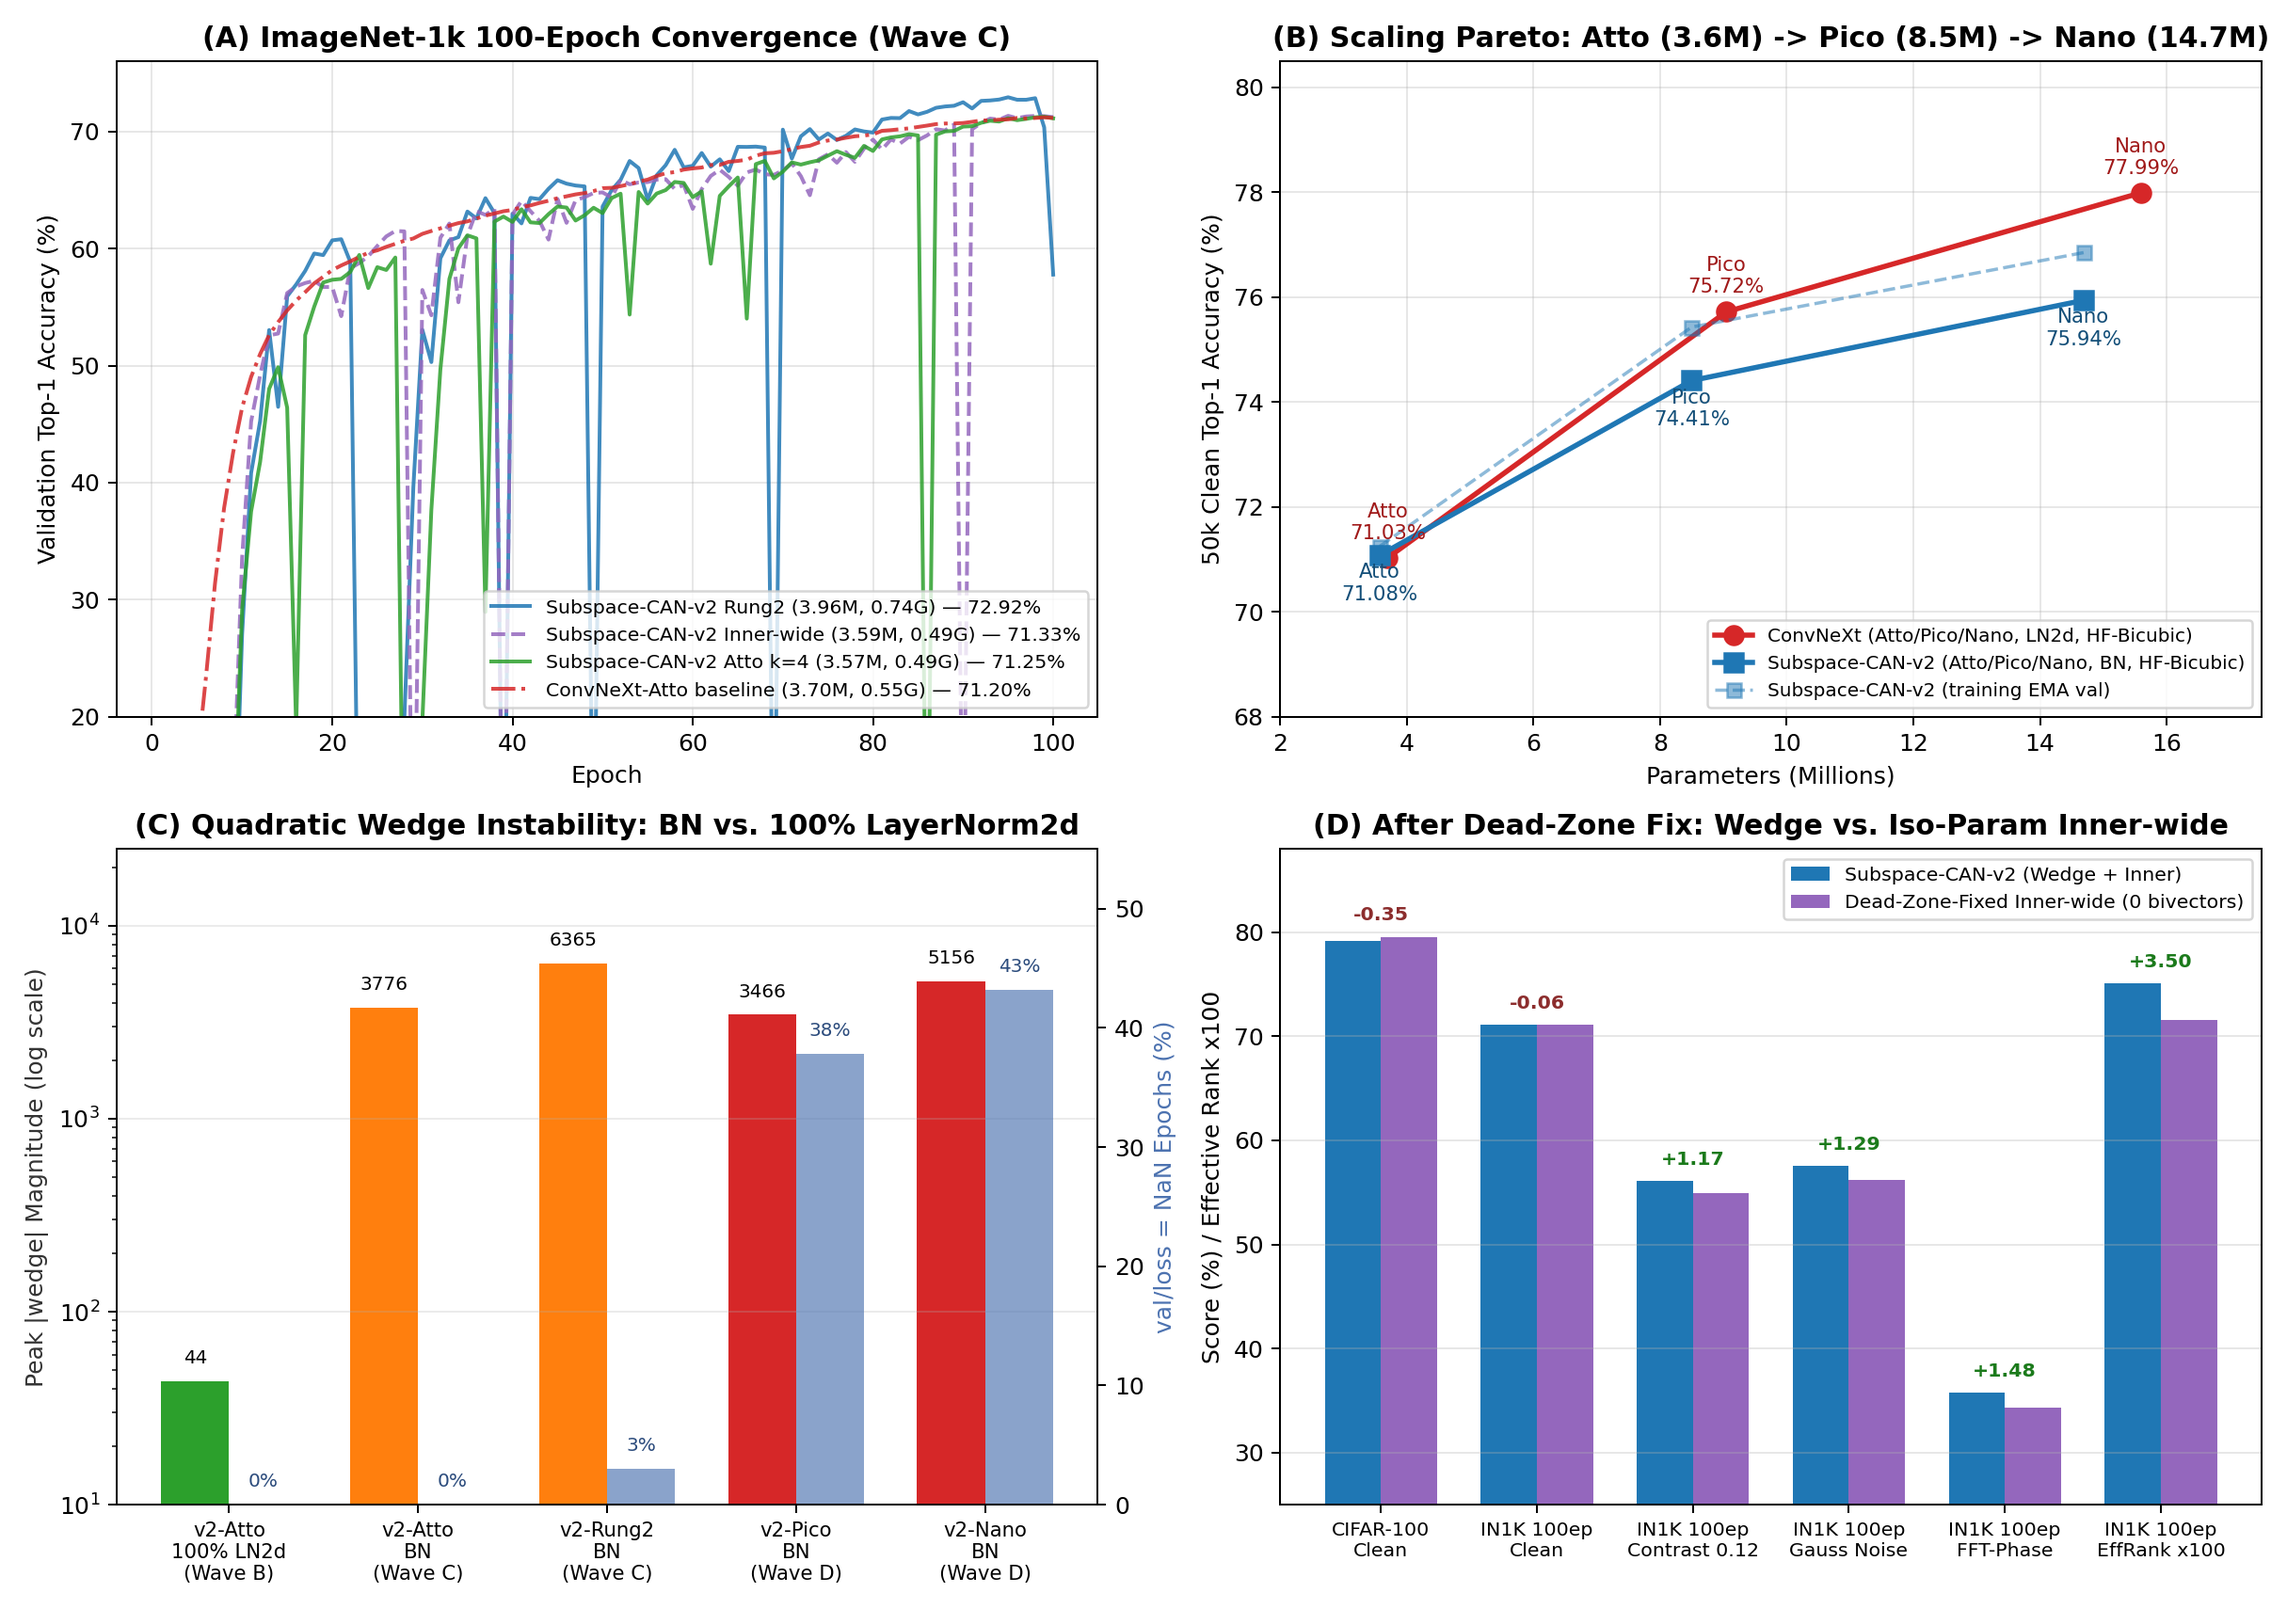
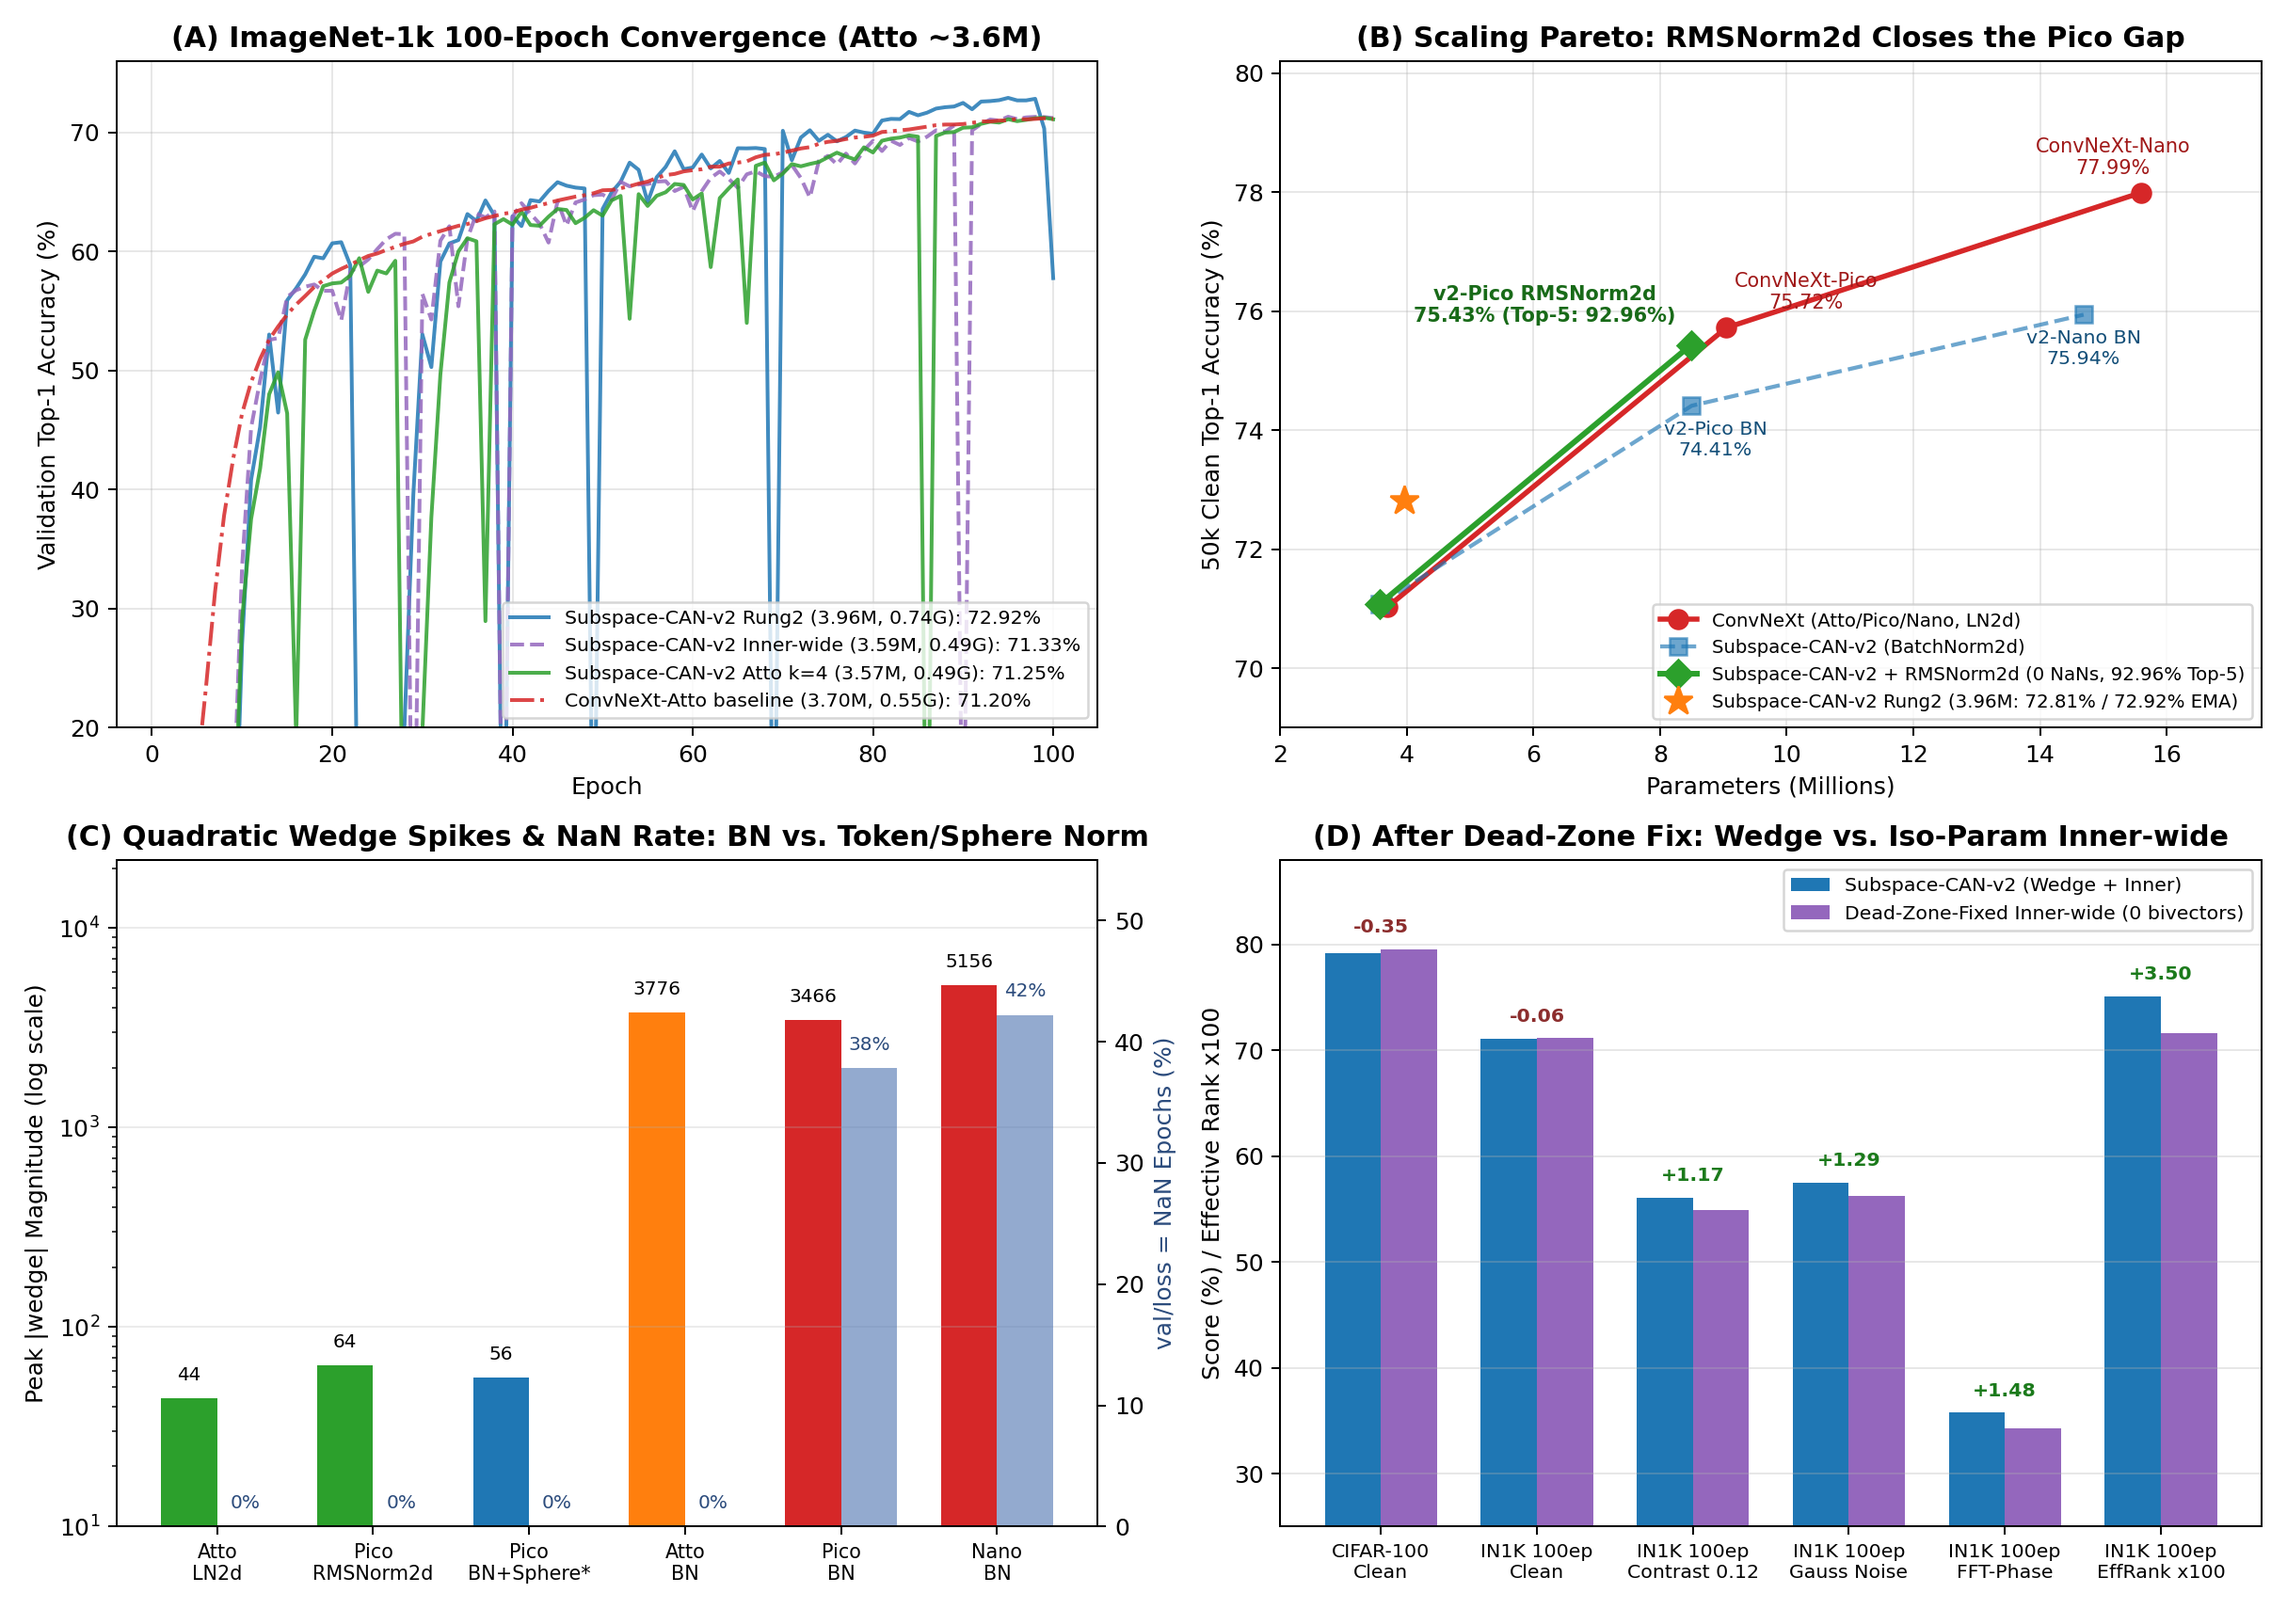
Add dedicated Pico instability & RMSNorm2d cure figure and update scaling plot

diff --git a/docs/subspace_clifford_research_report.md b/docs/subspace_clifford_research_report.md
@@ -236,5 +236,9 @@ To directly test our diagnosis from Section 8.3 and remove both the `torch.compi
 - **Stacking One-Sided Sphere Norm on top of `RMSNorm2d` over-constrains context magnitude (`-0.85%`):** Once `RMSNorm2d` bounds per-token norms, stripping per-subspace magnitude from `z2` (`peak |wedge| = 24.3`) discards useful local contrast information (`-3.79%` on `0.12x` contrast). One-sided sphere norm is best reserved for `BatchNorm2d`-only deployments (where our mid-run probe confirmed it dropped `34/90` NaNs down to `0/64` NaNs and `0` train spikes).
 - **Lossless `/dev/shm` verification:** Preserving aspect ratio inside a `320x320` padded canvas (`train_shapes.npy`) with `BICUBIC` val eliminated the `-1.02%` square-resize validation mismatch (`75.45%` vs. `75.43%`, `74.51%` vs. `74.58%`).
 
+![Pico Scaling Instability & RMSNorm2d Cure](../experiments/subspace_study/figures/in1k_pico_instability_and_cure.png)
+
+![ImageNet-1k 100-Epoch Convergence, Scaling Pareto, BN vs LN2d Stability, and Wedge Falsification](../experiments/subspace_study/figures/in1k_100ep_convergence_and_scaling.png)
+
 
 

diff --git a/README.md b/README.md
@@ -20,6 +20,8 @@ Key documents and code:
 
 ![First-Principles v2 Ablation Ladder](./experiments/subspace_study/figures/in1k_v2_ablation_ladder.png)
 
+![Pico Scaling Instability & RMSNorm2d Cure](./experiments/subspace_study/figures/in1k_pico_instability_and_cure.png)
+
 ![100-Epoch Convergence, Pico/Nano Scaling, and BN vs LN2d/RMSNorm2d Stability](./experiments/subspace_study/figures/in1k_100ep_convergence_and_scaling.png)
 
 ## Usage
